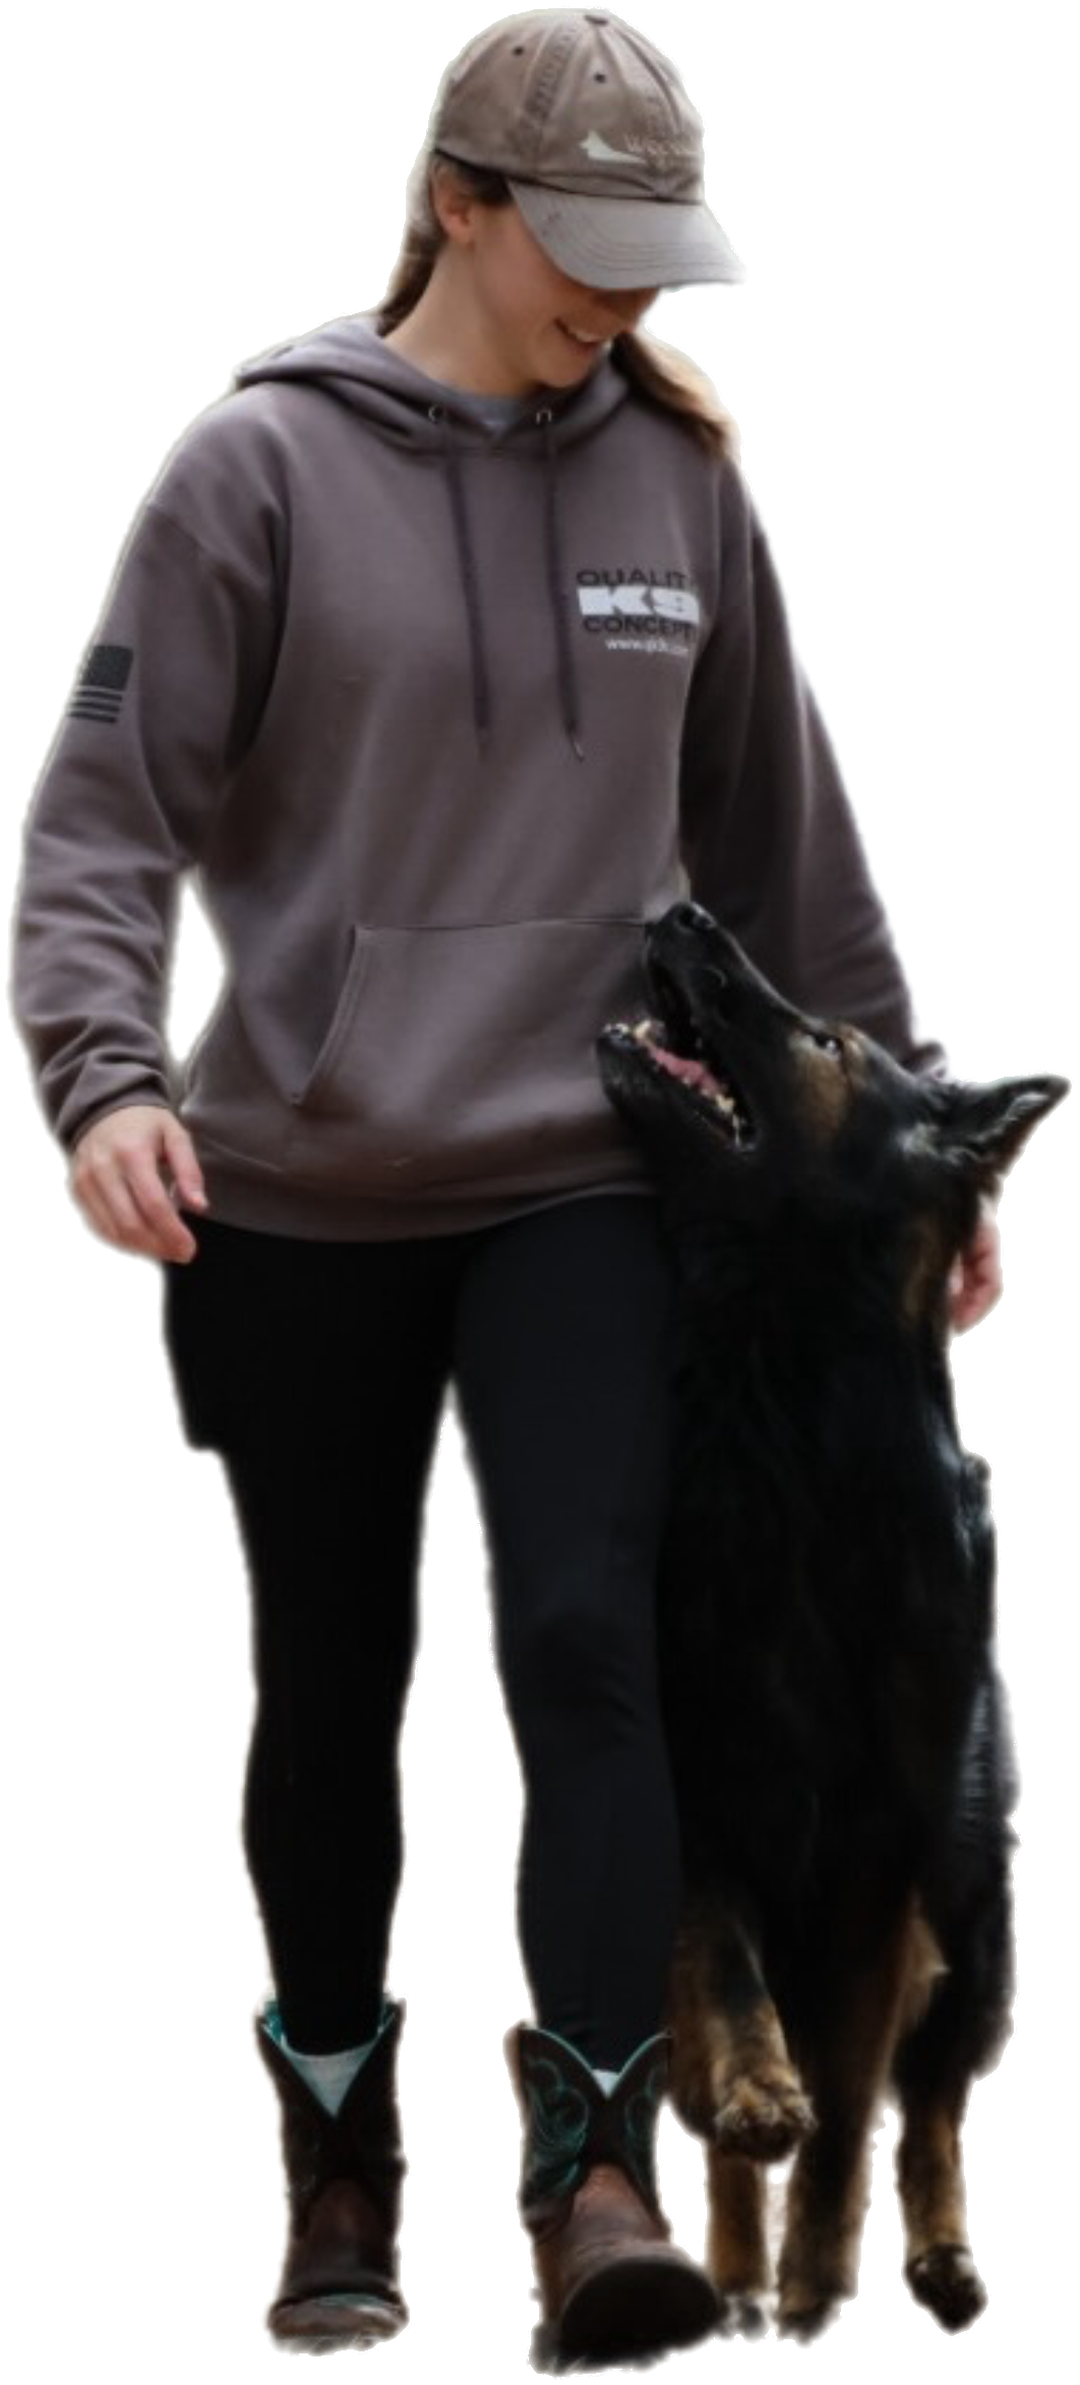
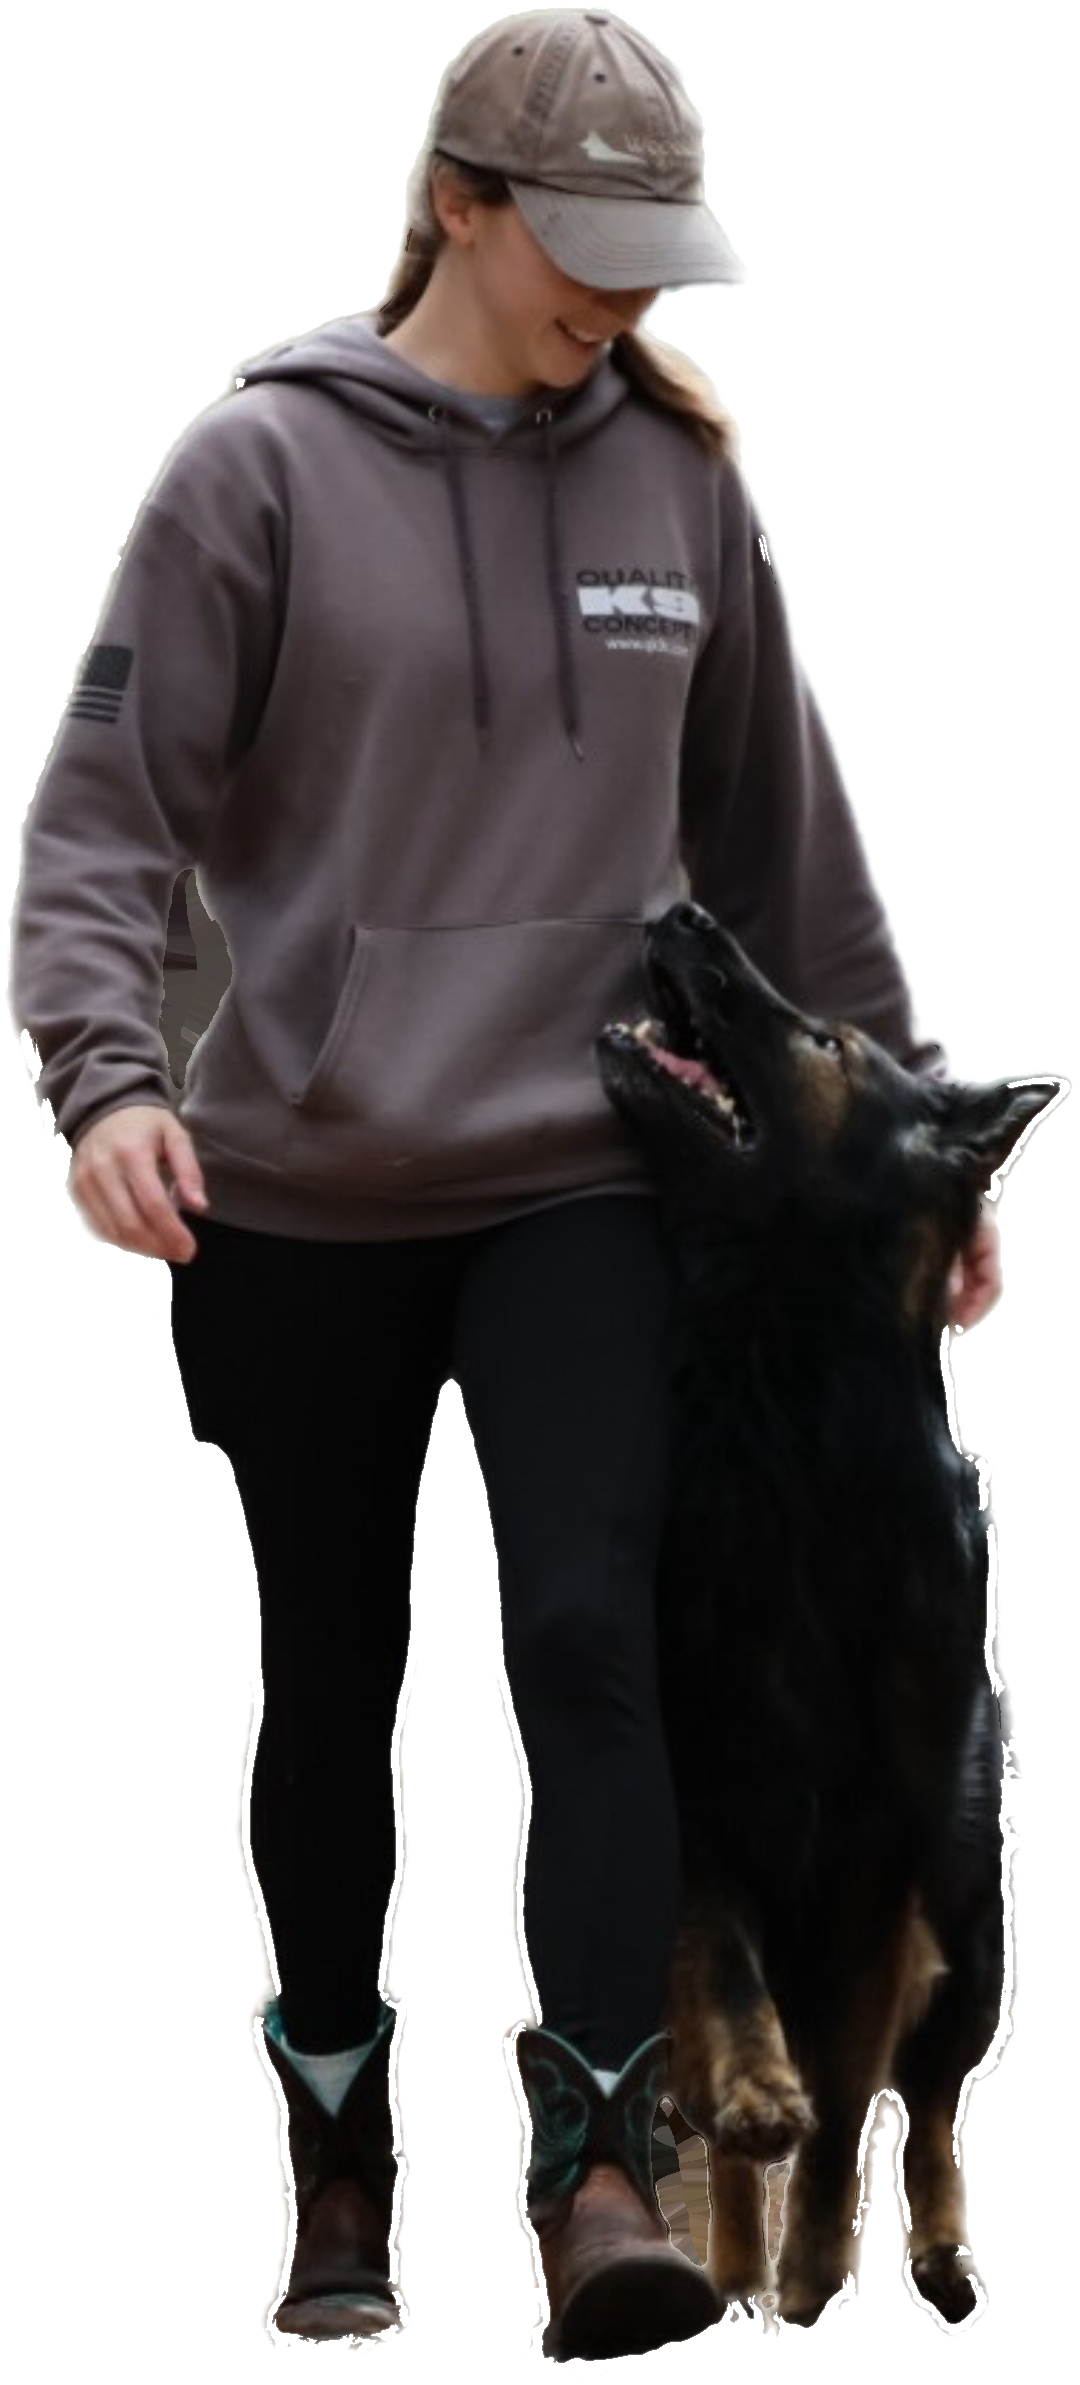
Fix cutout-heeling.png artifacts, sitting cutout opacity, remove unused heeling.png
- Fill 18K+ interior alpha channel holes in cutout-heeling.png (hat, ear, neck area)
- Remove dark fringe pixels and smooth edges for clean background removal
- Fix heroSlideLeftFade animation to end at opacity 1 instead of .7
  (animation forwards fill was overriding the CSS opacity: 1)
- Delete unused heeling.png (site uses cutout-heeling.png)

https://claude.ai/code/session_016zrEUW3YxhRN8f8SAn9fGn

diff --git a/ex2.html b/ex2.html
@@ -452,7 +452,7 @@ body { background: var(--bg-deep); color: var(--text-primary); font-family: var(
 }
 @keyframes heroSlideLeftFade {
   from { opacity: 0; transform: translateX(-55px); }
-  to   { opacity: .7; transform: translateX(0); }
+  to   { opacity: 1; transform: translateX(0); }
 }
 @keyframes heroSlideRight {
   from { opacity: 0; transform: translateX(55px); }
